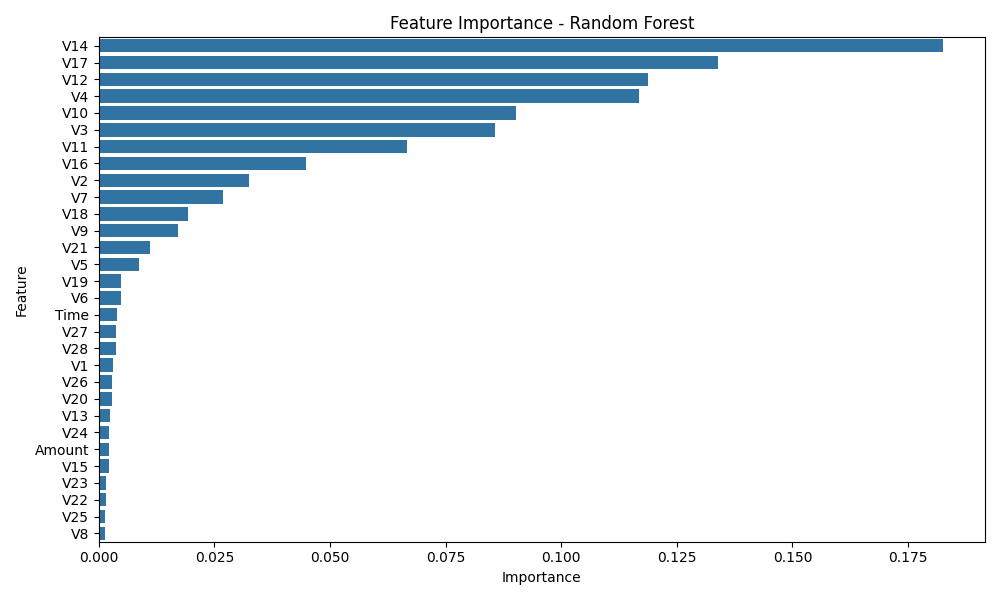
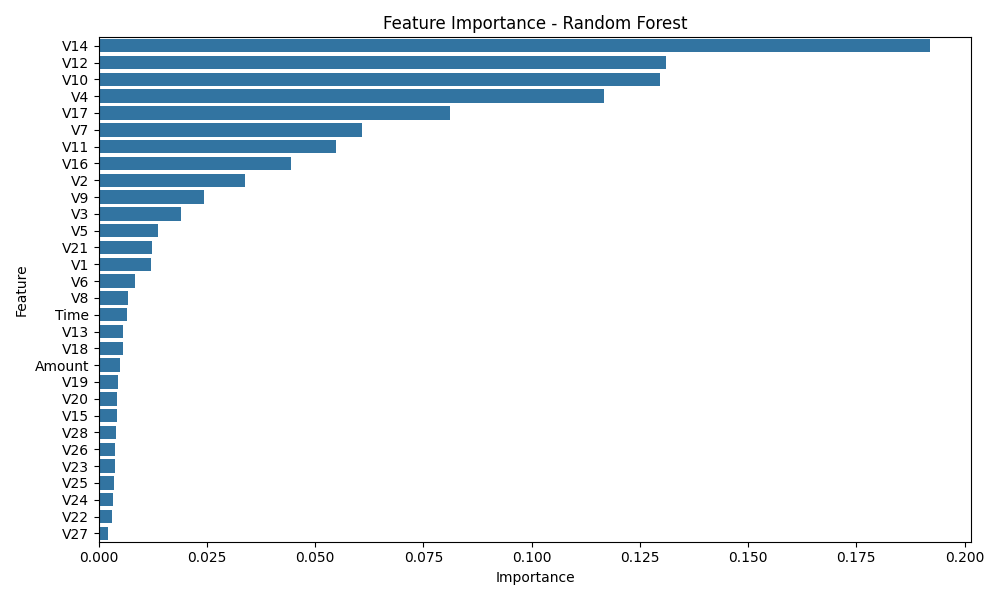
New

diff --git a/models/ensemble.py b/models/ensemble.py
@@ -1,7 +1,6 @@
 from sklearn.ensemble import VotingClassifier
 from sklearn.metrics import classification_report, confusion_matrix, accuracy_score, roc_auc_score
 from utils.logger import setup_logger
-from tqdm import tqdm
 
 # Setup logger
 logger = setup_logger(__name__)
@@ -12,7 +11,7 @@ def get_voting_classifier(config, best_estimators):
     """
     # Ensure all specified classifiers are available in the best_estimators dictionary
     estimators = []
-    for name in tqdm(config['classifiers'], desc="Setting up Voting Classifier"):
+    for name in config['classifiers']:
         if name in best_estimators:
             estimators.append((name, best_estimators[name]))
         else:
@@ -61,4 +60,3 @@ def train_and_evaluate_voting_classifier(X_train, X_test, y_train, y_test, best_
     except Exception as e:
         logger.error(f"An error occurred while training and evaluating the voting classifier: {str(e)}")
         return {}
-

diff --git a/models/classifiers.py b/models/classifiers.py
@@ -14,7 +14,7 @@ logger = setup_logger(__name__)
 
 # Define all classifiers
 all_classifiers = {
-    'Random Forest': RandomForestClassifier(n_estimators=50, max_depth=10),
+    'Random Forest': RandomForestClassifier(max_depth=100, min_samples_split=5,n_estimators=50)
 }
 
 def analyze_first_fold(X, y):
@@ -96,13 +96,7 @@ def train_and_evaluate(X_train, X_test, y_train, y_test, best_estimators, config
     return results
 
 def hyperparameter_tuning(X_train, y_train, config, logger):
-    tuned_parameters = {
-        'Random Forest': {
-            'classifier__max_depth': [10, 20, None],
-            'classifier__min_samples_split': [2, 5, 10]
-        }
-        # Add other classifiers and their parameters here
-    }
+    tuned_parameters = config.get('tuned_parameters', {})
 
     selected_classifiers = config['classifiers']
     best_estimators = {}

diff --git a/main.py b/main.py
@@ -28,7 +28,9 @@ if __name__ == "__main__":
         log_memory_usage(logger)
 
         logger.info("Loading dataset...")
-        df = load_data('C:\\Users\\ke1no\\OneDrive - Sheffield Hallam University\\Year3\\Disseration\\Dataset-Approved\\creditcard.csv')
+        path_home='C:\\Users\\ke1no\\OneDrive - Sheffield Hallam University\\Year3\\Disseration\\Dataset-Approved\\creditcard.csv'
+        path_library='C:\\Users\\c0003255\\OneDrive - Sheffield Hallam University\\Year3\\Disseration\\Dataset-Approved\\creditcard.csv'
+        df = load_data(path_library)
         log_memory_usage(logger)
 
         logger.info("Preprocessing data...")

diff --git a/preprocessing/preprocess.py b/preprocessing/preprocess.py
@@ -10,7 +10,7 @@ logger = setup_logger(__name__)
 def load_data(file_path):
     logger.info("Loading data from file: %s", file_path)
     df = pd.read_csv(file_path)
-    df = df.sample(frac=0.3, random_state=25)  # Use 30% of the data to avoid SMOTETomek issues
+    #df = df.sample(frac=0.3, random_state=25)  # Use 30% of the data to avoid SMOTETomek issues
     logger.info("Data loaded. Shape: %s", df.shape)
     return df
 

diff --git a/utils/plotter.py b/utils/plotter.py
@@ -86,6 +86,4 @@ def plot_roc_pr_curves(y_test, y_proba, classifier_name):
     plot_roc_curve(y_test, y_proba, classifier_name)
     plot_precision_recall_curve(y_test, y_proba, classifier_name)
     plt.tight_layout()
-    filename = os.path.join(save_path, f"roc_pr_curves_{classifier_name}.png")
-    plt.savefig(filename)  # Save the combined plot
     plt.close()
